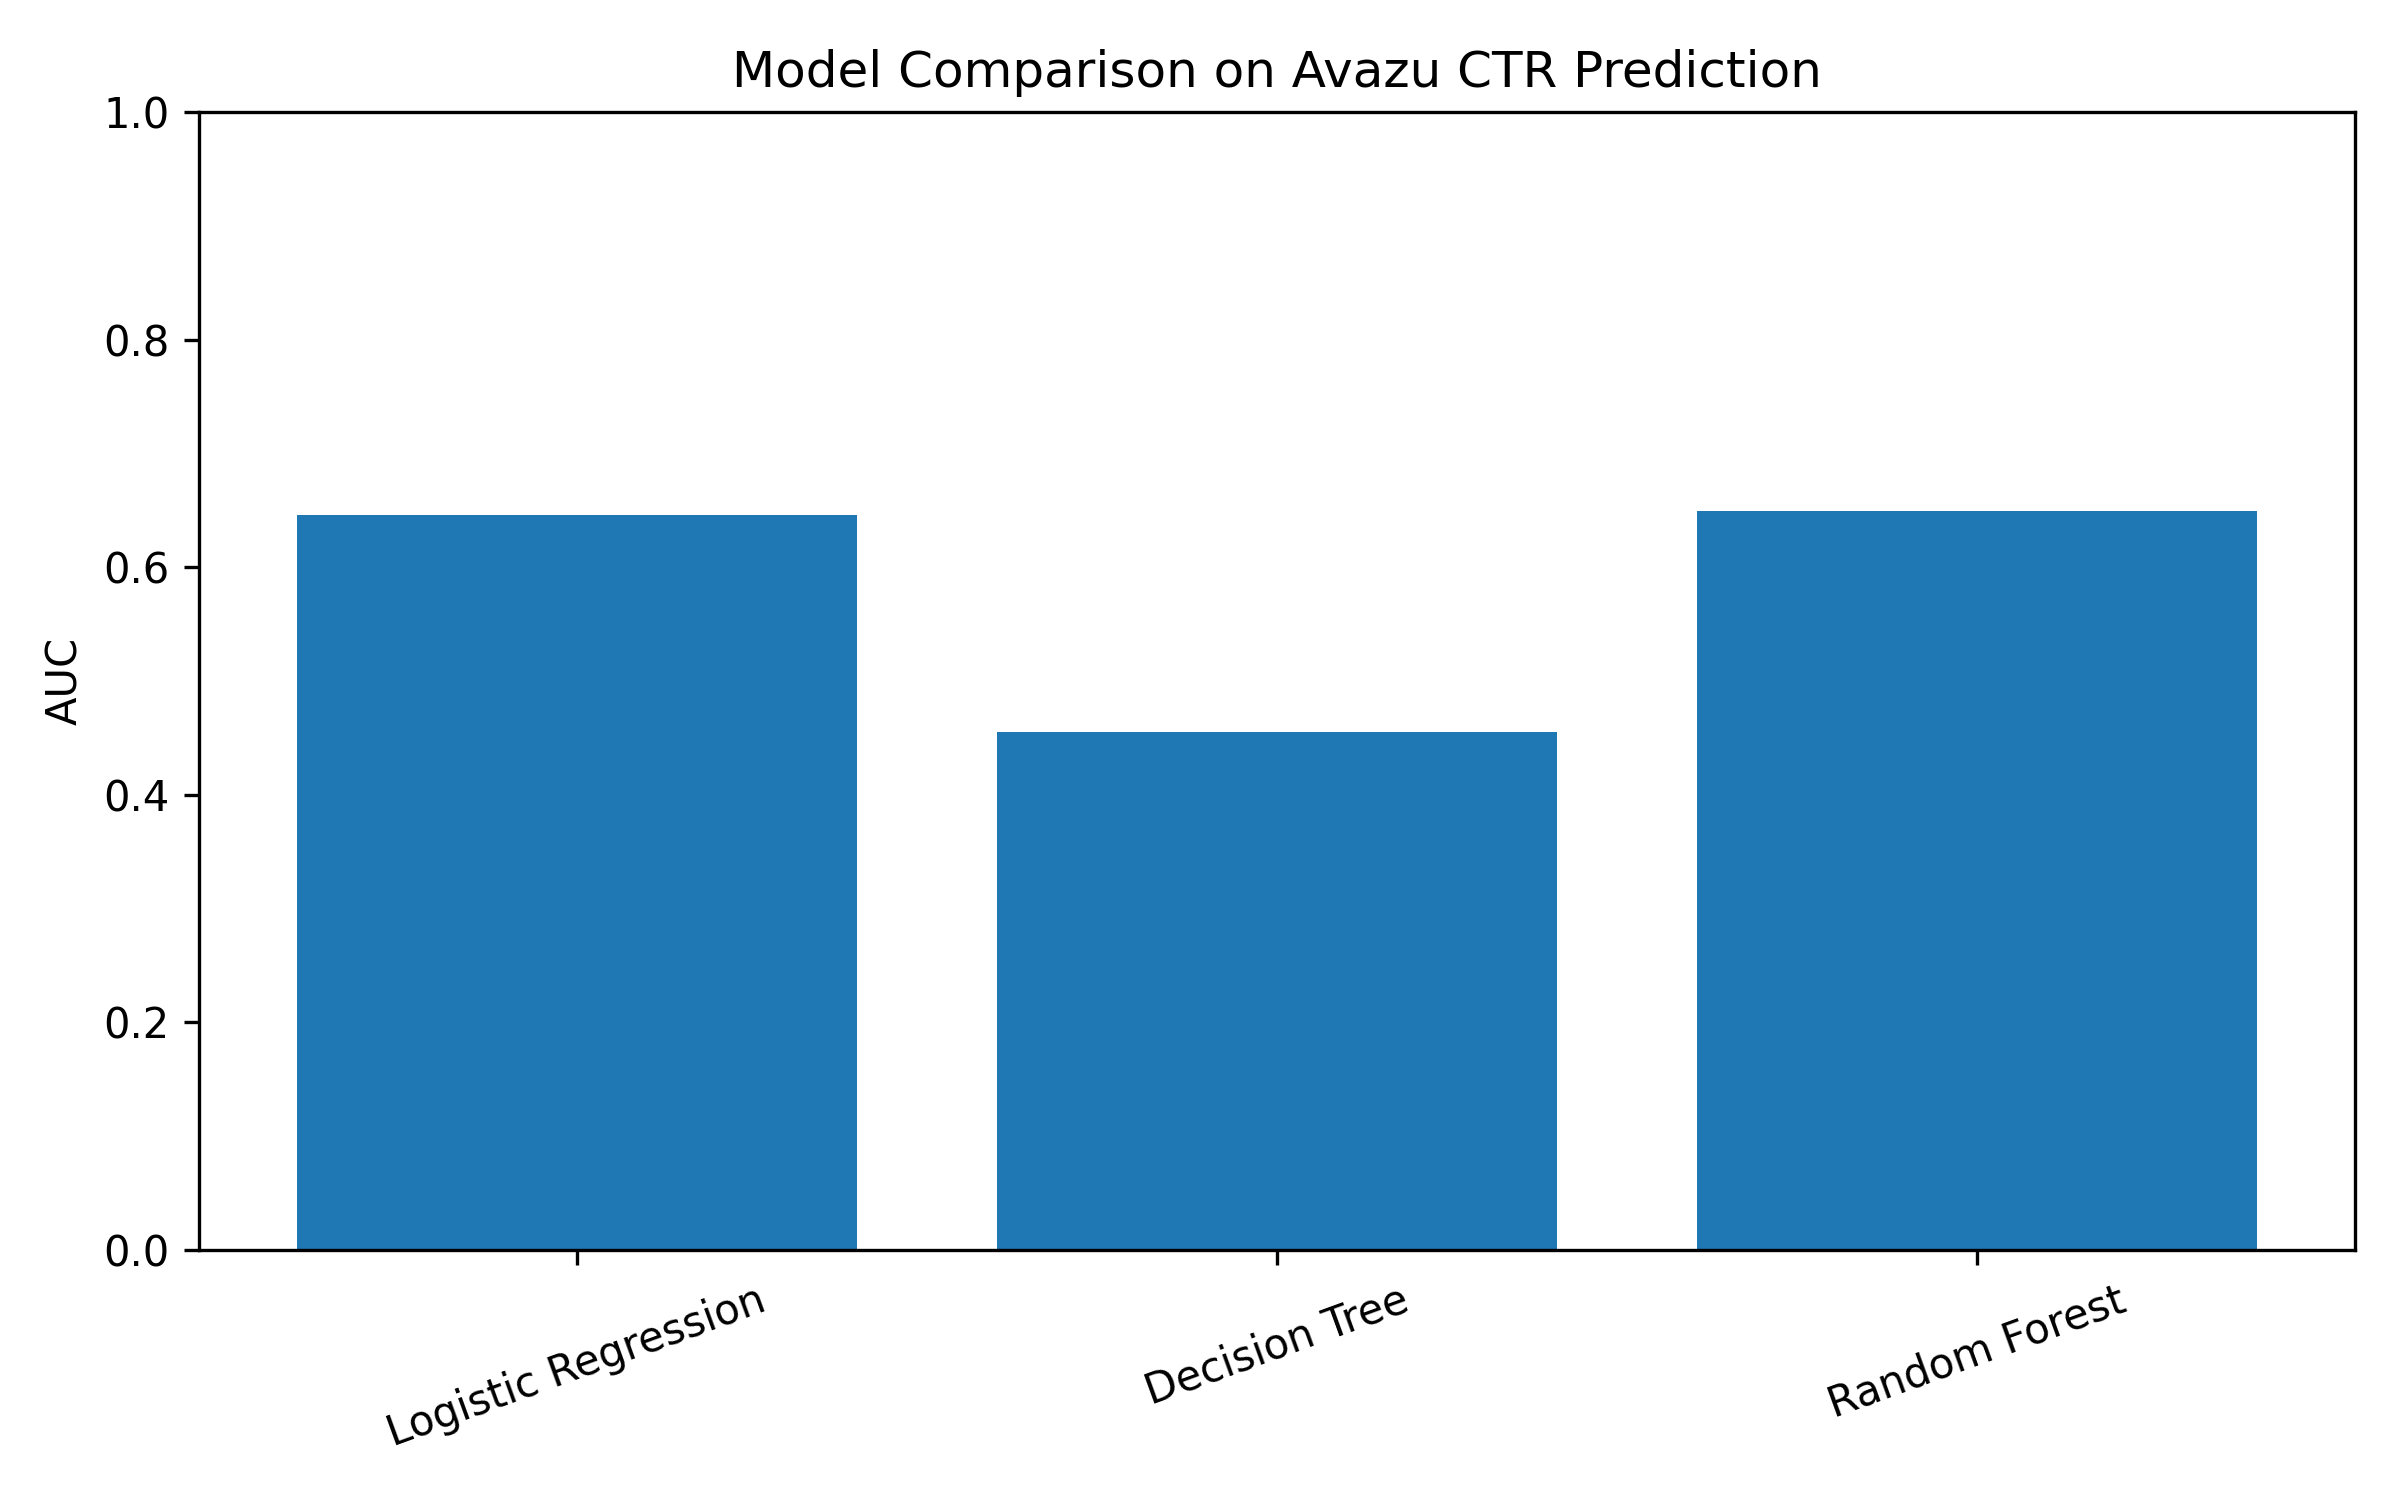
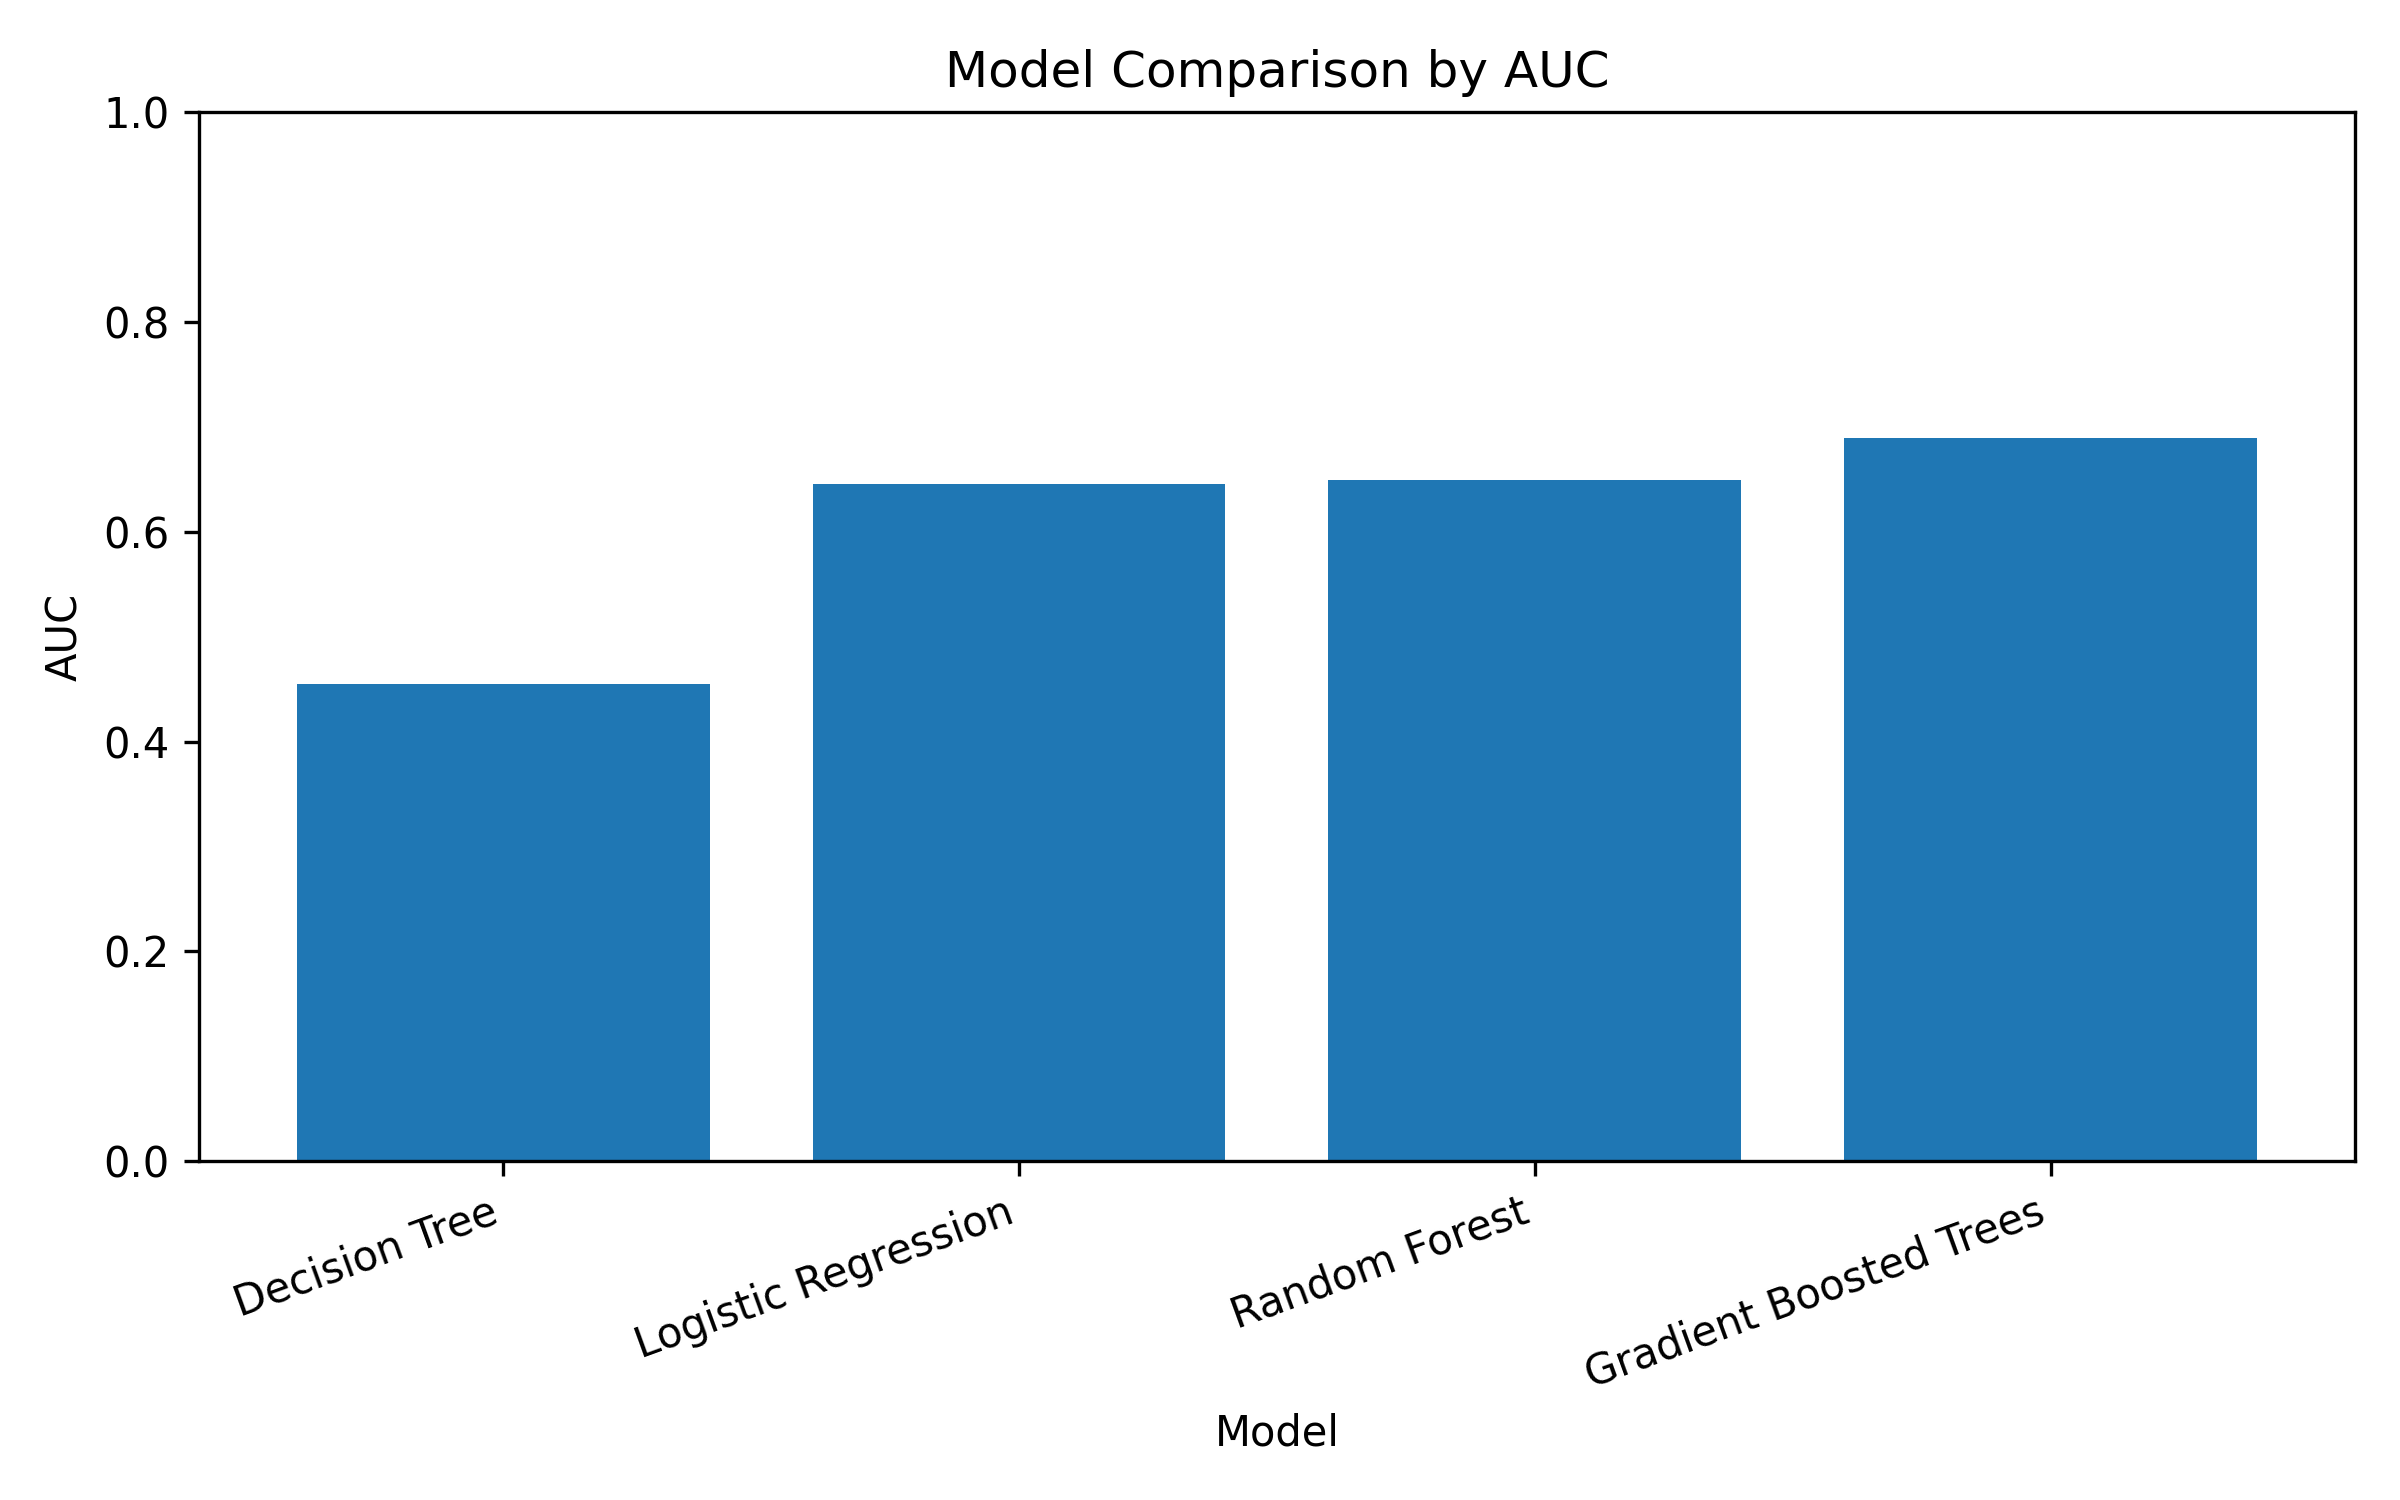
Add project result visualizations

diff --git a/src/plot_eda_results.py b/src/plot_eda_results.py
@@ -1,0 +1,104 @@
+import pandas as pd
+import matplotlib.pyplot as plt
+from pyspark.sql import SparkSession
+from pyspark.sql.functions import avg, count, substring, col
+
+spark = SparkSession.builder.appName("AvazuPlots").getOrCreate()
+
+df = spark.read.csv("data/raw/train.csv", header=True, inferSchema=True)
+
+df = df.withColumn(
+    "hour_of_day",
+    substring(col("hour").cast("string"), 7, 2)
+)
+
+# 1. Click distribution
+click_dist = (
+    df.groupBy("click")
+    .count()
+    .orderBy("click")
+    .toPandas()
+)
+
+plt.figure(figsize=(6, 4))
+plt.bar(click_dist["click"].astype(str), click_dist["count"])
+plt.title("Click Distribution")
+plt.xlabel("Click")
+plt.ylabel("Count")
+plt.tight_layout()
+plt.savefig("results/click_distribution.png", dpi=300)
+plt.close()
+
+# 2. CTR by hour
+ctr_hour = (
+    df.groupBy("hour_of_day")
+    .agg(
+        count("*").alias("impressions"),
+        avg("click").alias("ctr")
+    )
+    .orderBy("hour_of_day")
+    .toPandas()
+)
+
+ctr_hour["ctr_percent"] = ctr_hour["ctr"] * 100
+
+plt.figure(figsize=(9, 5))
+plt.plot(ctr_hour["hour_of_day"], ctr_hour["ctr_percent"], marker="o")
+plt.title("Click-Through Rate by Hour of Day")
+plt.xlabel("Hour of Day")
+plt.ylabel("CTR (%)")
+plt.tight_layout()
+plt.savefig("results/ctr_by_hour.png", dpi=300)
+plt.close()
+
+# 3. CTR by banner position
+ctr_banner = (
+    df.groupBy("banner_pos")
+    .agg(
+        count("*").alias("impressions"),
+        avg("click").alias("ctr")
+    )
+    .orderBy("banner_pos")
+    .toPandas()
+)
+
+ctr_banner["ctr_percent"] = ctr_banner["ctr"] * 100
+
+plt.figure(figsize=(7, 5))
+plt.bar(ctr_banner["banner_pos"].astype(str), ctr_banner["ctr_percent"])
+plt.title("Click-Through Rate by Banner Position")
+plt.xlabel("Banner Position")
+plt.ylabel("CTR (%)")
+plt.tight_layout()
+plt.savefig("results/ctr_by_banner_position.png", dpi=300)
+plt.close()
+
+# 4. CTR by device type
+ctr_device = (
+    df.groupBy("device_type")
+    .agg(
+        count("*").alias("impressions"),
+        avg("click").alias("ctr")
+    )
+    .orderBy("device_type")
+    .toPandas()
+)
+
+ctr_device["ctr_percent"] = ctr_device["ctr"] * 100
+
+plt.figure(figsize=(7, 5))
+plt.bar(ctr_device["device_type"].astype(str), ctr_device["ctr_percent"])
+plt.title("Click-Through Rate by Device Type")
+plt.xlabel("Device Type")
+plt.ylabel("CTR (%)")
+plt.tight_layout()
+plt.savefig("results/ctr_by_device_type.png", dpi=300)
+plt.close()
+
+spark.stop()
+
+print("Saved plots:")
+print("results/click_distribution.png")
+print("results/ctr_by_hour.png")
+print("results/ctr_by_banner_position.png")
+print("results/ctr_by_device_type.png")

diff --git a/src/plot_model_results.py b/src/plot_model_results.py
@@ -1,0 +1,17 @@
+import pandas as pd
+import matplotlib.pyplot as plt
+
+df = pd.read_csv("results/metrics.csv")
+
+plt.figure(figsize=(8, 5))
+plt.bar(df["model"], df["auc"])
+plt.title("Model Comparison by AUC")
+plt.xlabel("Model")
+plt.ylabel("AUC")
+plt.ylim(0, 1)
+plt.xticks(rotation=20, ha="right")
+plt.tight_layout()
+plt.savefig("results/model_comparison_auc.png", dpi=300)
+plt.close()
+
+print("Saved results/model_comparison_auc.png")
